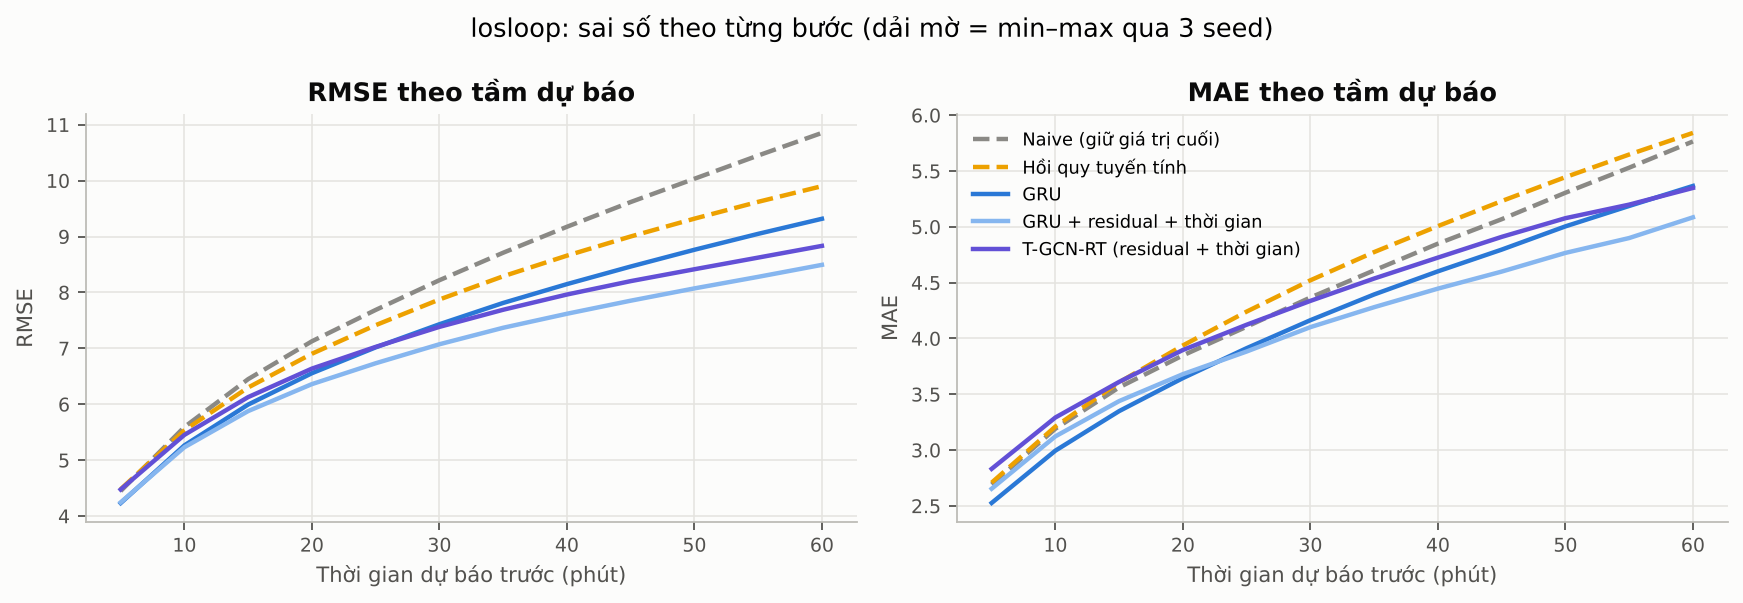
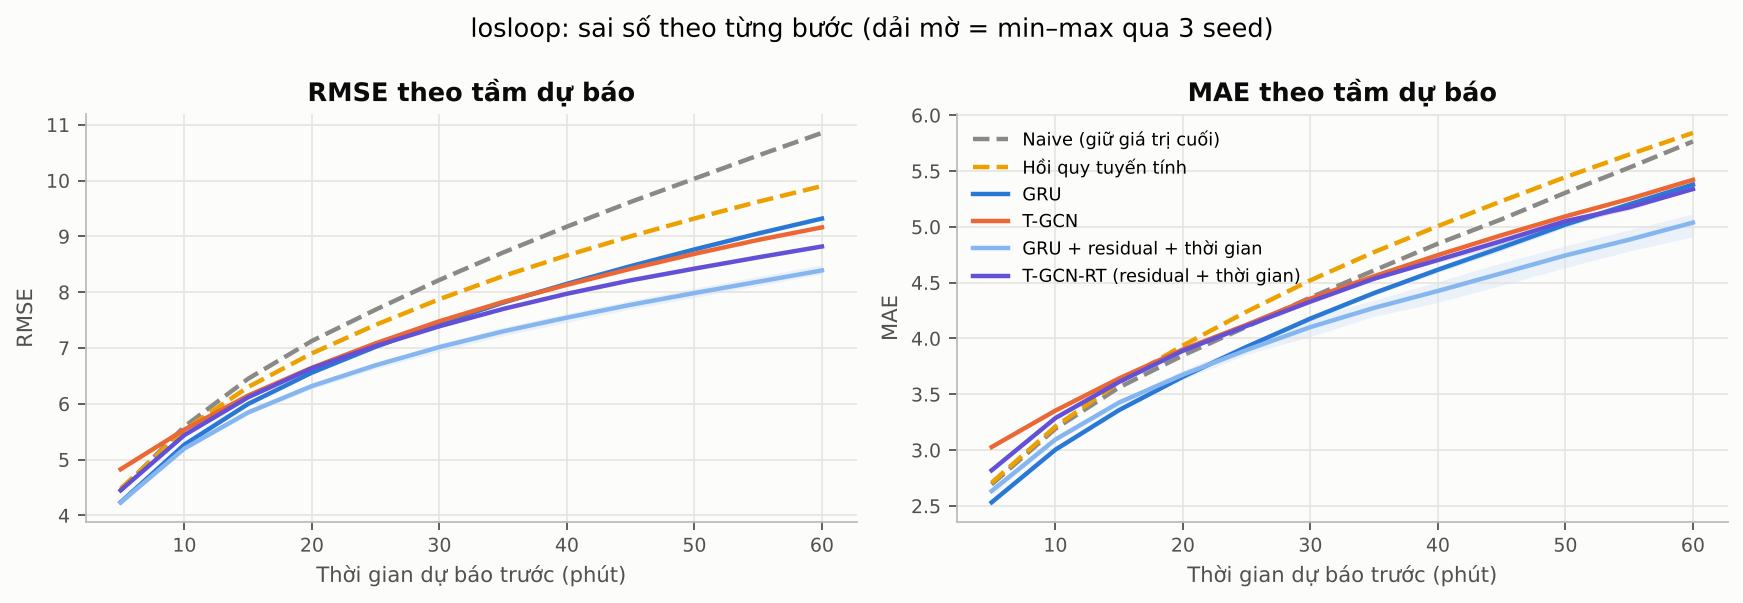
Refresh interim Los-loop tables (3-seed GRU-RT, ensembles)
Claude-Session: https://claude.ai/code/session_01B22viBVGJcNTDcZfHB3jNA

diff --git a/reports/tables/main_results_losloop.md b/reports/tables/main_results_losloop.md
@@ -6,4 +6,11 @@
 | ha_window | 1 | 9.713 | 5.095 | 13.935 | 8.058 | 4.254 | 9.503 | 5.007 | 10.747 | 5.714 | 11.854 | 6.388 |
 | ha_tod | 1 | 9.175 | 5.357 | 17.486 | 9.201 | 5.377 | 9.181 | 5.363 | 9.157 | 5.343 | 9.136 | 5.324 |
 | linear | 1 | 7.944 | 4.514 | 13.492 | 6.300 | 3.607 | 7.874 | 4.521 | 9.001 | 5.231 | 9.902 | 5.842 |
-| gcn | 2 | 8.852 ± 0.009 | 5.541 ± 0.007 | 16.052 ± 0.006 | 8.177 ± 0.009 | 5.121 ± 0.005 | 8.738 ± 0.004 | 5.496 ± 0.001 | 9.292 ± 0.009 | 5.841 ± 0.013 | 9.831 ± 0.009 | 6.175 ± 0.001 |
+| gru | 3 | 7.495 ± 0.006 | 4.175 ± 0.023 | 12.163 ± 0.064 | 5.997 ± 0.005 | 3.359 ± 0.017 | 7.435 ± 0.007 | 4.178 ± 0.026 | 8.467 ± 0.009 | 4.815 ± 0.034 | 9.319 ± 0.006 | 5.379 ± 0.025 |
+| tgcn | 1 | 7.525 | 4.367 | 12.507 | 6.148 | 3.642 | 7.479 | 4.357 | 8.419 | 4.925 | 9.161 | 5.421 |
+| gru_res_time | 3 | 6.981 ± 0.063 | 4.065 ± 0.063 | 11.094 ± 0.151 | 5.845 ± 0.035 | 3.427 ± 0.025 | 7.016 ± 0.071 | 4.102 ± 0.085 | 7.774 ± 0.078 | 4.585 ± 0.102 | 8.390 ± 0.091 | 5.038 ± 0.110 |
+| tgcn_res_time | 2 | 7.350 ± 0.000 | 4.311 ± 0.019 | 11.914 ± 0.019 | 6.117 ± 0.016 | 3.611 ± 0.000 | 7.389 ± 0.007 | 4.330 ± 0.010 | 8.212 ± 0.013 | 4.873 ± 0.053 | 8.819 ± 0.020 | 5.339 ± 0.014 |
+| tgcn_selfloop1 | 1 | 7.932 | 4.740 | 13.711 | 6.818 | 4.159 | 7.870 | 4.718 | 8.671 | 5.184 | 9.288 | 5.582 |
+| ensemble_gru | 1 | 7.483 | 4.168 | 12.146 | 5.986 | 3.352 | 7.424 | 4.172 | 8.455 | 4.809 | 9.308 | 5.373 |
+| ensemble_gru_res_time | 1 | 6.911 | 4.012 | 10.958 | 5.797 | 3.383 | 6.948 | 4.049 | 7.692 | 4.527 | 8.294 | 4.972 |
+| ensemble_tgcn_res_time | 1 | 7.293 | 4.270 | 11.801 | 6.069 | 3.573 | 7.333 | 4.289 | 8.148 | 4.828 | 8.751 | 5.294 |
